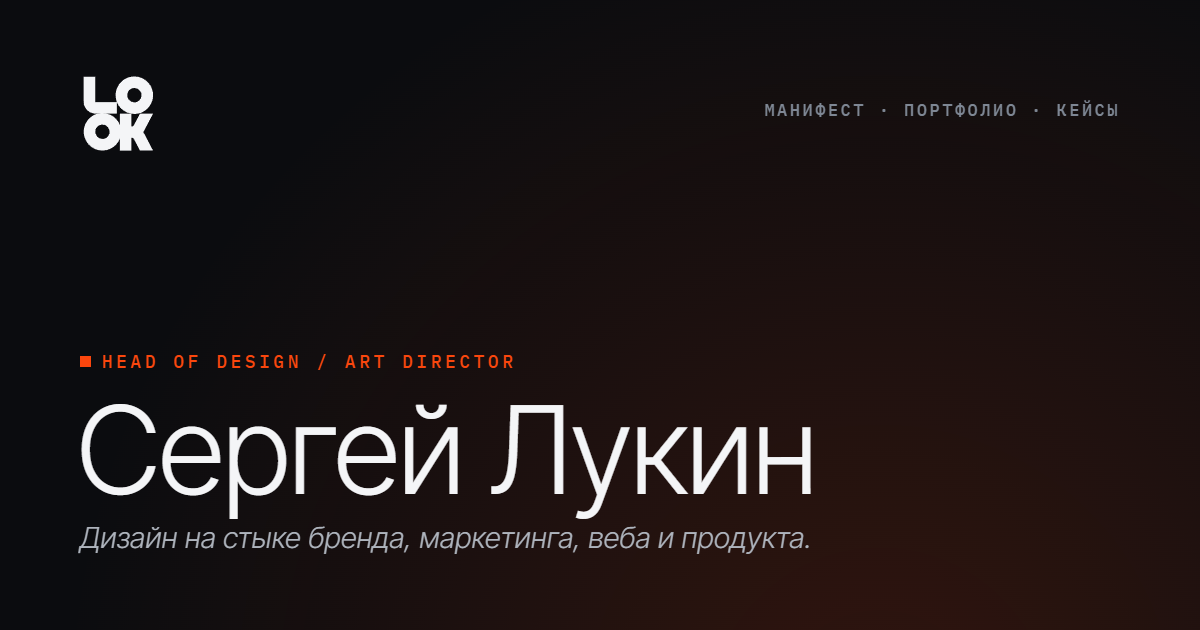
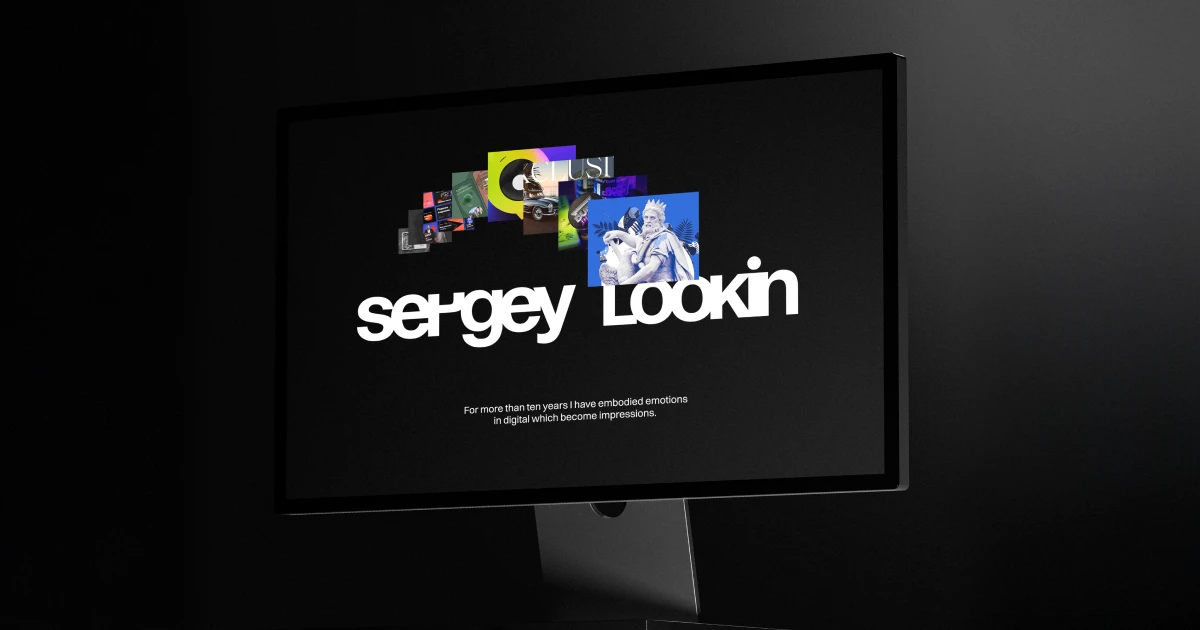
Новое превью для мессенджеров, без повтора названия
Обложка og-cover.png заменена (1200×630, PNG 235 КБ). Из всех 26 страниц
убран og:site_name: Telegram печатал его над заголовком, и строка
«Сергей Лукин — Head of Design» шла два раза подряд.

diff --git a/portfolio.html b/portfolio.html
@@ -1,7 +1,7 @@
 <!DOCTYPE html>
 <html lang="ru"><head><meta charset="UTF-8" /><meta name="viewport" content="width=device-width, initial-scale=1.0" /><meta name="color-scheme" content="light dark" /><title>Портфолио · Сергей Лукин</title><meta name="description" content="Избранные проекты Сергея Лукина: брендинг, веб-дизайн, дизайн-системы и арт-дирекшн. Десять историй о том, как дизайн работает на бизнес, а не на портфолио." /><meta property="og:type" content="website" />
 <meta property="og:url" content="https://sergeylookin.github.io/Sergey-Lookin/portfolio.html" />
-<link rel="canonical" href="https://sergeylookin.github.io/Sergey-Lookin/portfolio.html"><meta property="og:locale" content="ru_RU" /><meta property="og:locale:alternate" content="en_US" /><meta property="og:site_name" content="Сергей Лукин — Head of Design" /><meta property="og:title" content="Портфолио · Сергей Лукин" /><meta property="og:description" content="Избранные проекты Сергея Лукина: брендинг, веб-дизайн, дизайн-системы и арт-дирекшн. Десять историй о том, как дизайн работает на бизнес, а не на портфолио." /><meta property="og:image" content="https://sergeylookin.github.io/Sergey-Lookin/assets/og/og-cover.png" /><meta property="og:image:width" content="1200" /><meta property="og:image:height" content="630" /><meta property="og:image:alt" content="Сергей Лукин — Head of Design / Art Director" /><meta name="twitter:card" content="summary_large_image" /><meta name="twitter:title" content="Портфолио · Сергей Лукин" /><meta name="twitter:description" content="Избранные проекты Сергея Лукина: брендинг, веб-дизайн, дизайн-системы и арт-дирекшн. Десять историй о том, как дизайн работает на бизнес, а не на портфолио." /><meta name="twitter:image" content="https://sergeylookin.github.io/Sergey-Lookin/assets/og/og-cover.png" /><meta name="twitter:image:alt" content="Сергей Лукин — Head of Design / Art Director" /><link rel="alternate" hreflang="ru" href="https://sergeylookin.github.io/Sergey-Lookin/portfolio.html"><link rel="alternate" hreflang="en" href="https://sergeylookin.github.io/Sergey-Lookin/en/portfolio.html"><link rel="alternate" hreflang="x-default" href="https://sergeylookin.github.io/Sergey-Lookin/portfolio.html"><link rel="icon" href="assets/favicon-dark.svg" type="image/svg+xml"><link rel="icon" href="assets/favicon-light.svg" type="image/svg+xml" media="(prefers-color-scheme: light)"><link rel="apple-touch-icon" href="assets/apple-touch-icon.png"><link rel="preload" href="assets/fonts/inter-tight-normal-300_700-cyrillic.woff2" as="font" type="font/woff2" crossorigin><link rel="preload" href="assets/fonts/inter-tight-italic-300_700-cyrillic.woff2" as="font" type="font/woff2" crossorigin><link rel="stylesheet" href="assets/core.min.css?v=188"><link rel="stylesheet" href="assets/site.min.css?v=188"></head>
+<link rel="canonical" href="https://sergeylookin.github.io/Sergey-Lookin/portfolio.html"><meta property="og:locale" content="ru_RU" /><meta property="og:locale:alternate" content="en_US" /><meta property="og:title" content="Портфолио · Сергей Лукин" /><meta property="og:description" content="Избранные проекты Сергея Лукина: брендинг, веб-дизайн, дизайн-системы и арт-дирекшн. Десять историй о том, как дизайн работает на бизнес, а не на портфолио." /><meta property="og:image" content="https://sergeylookin.github.io/Sergey-Lookin/assets/og/og-cover.png" /><meta property="og:image:width" content="1200" /><meta property="og:image:height" content="630" /><meta property="og:image:alt" content="Сергей Лукин — Head of Design / Art Director" /><meta name="twitter:card" content="summary_large_image" /><meta name="twitter:title" content="Портфолио · Сергей Лукин" /><meta name="twitter:description" content="Избранные проекты Сергея Лукина: брендинг, веб-дизайн, дизайн-системы и арт-дирекшн. Десять историй о том, как дизайн работает на бизнес, а не на портфолио." /><meta name="twitter:image" content="https://sergeylookin.github.io/Sergey-Lookin/assets/og/og-cover.png" /><meta name="twitter:image:alt" content="Сергей Лукин — Head of Design / Art Director" /><link rel="alternate" hreflang="ru" href="https://sergeylookin.github.io/Sergey-Lookin/portfolio.html"><link rel="alternate" hreflang="en" href="https://sergeylookin.github.io/Sergey-Lookin/en/portfolio.html"><link rel="alternate" hreflang="x-default" href="https://sergeylookin.github.io/Sergey-Lookin/portfolio.html"><link rel="icon" href="assets/favicon-dark.svg" type="image/svg+xml"><link rel="icon" href="assets/favicon-light.svg" type="image/svg+xml" media="(prefers-color-scheme: light)"><link rel="apple-touch-icon" href="assets/apple-touch-icon.png"><link rel="preload" href="assets/fonts/inter-tight-normal-300_700-cyrillic.woff2" as="font" type="font/woff2" crossorigin><link rel="preload" href="assets/fonts/inter-tight-italic-300_700-cyrillic.woff2" as="font" type="font/woff2" crossorigin><link rel="stylesheet" href="assets/core.min.css?v=188"><link rel="stylesheet" href="assets/site.min.css?v=188"></head>
 <body class="theme-dark"><a class="skip" href="#work" data-i18n="skip">Перейти к содержанию</a>
 <nav class="top on-dark" id="nav"><a class="brand" href="index.html" id="navHome" data-i18n="nav.brand">Сергей Лукин <b>·</b> <span>Head of Design</span></a><div class="nav-center"><a href="index.html" class="nav-contact" data-i18n="nav.manifesto">Манифест</a><span class="nav-sep" aria-hidden="true">·</span><a href="about.html" class="nav-contact" data-i18n="nav.about">Обо мне</a><span class="nav-sep" aria-hidden="true">·</span><a href="portfolio.html" class="nav-contact is-active" aria-current="page" data-i18n="nav.pf">Портфолио</a></div><div class="nav-right"><div class="lang-switch" id="langSwitch" role="group" aria-label="Язык" data-aria-ru="Язык" data-aria-en="Language"><button type="button" data-lang="ru" class="active" aria-pressed="true">RU</button><span class="sep" aria-hidden="true">·</span><button type="button" data-lang="en" aria-pressed="false">EN</button></div></div></nav>
 <header class="page-head wrap" id="work"><h1 class="page-title" data-i18n="pf.title">Избранные проекты</h1><p class="page-lead" data-i18n="pf.lead">Брендинг, веб-дизайн, дизайн-системы и арт-дирекшн. Десять историй о том, как дизайн работает на бизнес, а не на портфолио.</p></header>

diff --git a/en/portfolio.html b/en/portfolio.html
@@ -1,6 +1,6 @@
 <!DOCTYPE html><html lang="en"><head><meta charset="UTF-8"><meta name="viewport" content="width=device-width, initial-scale=1.0"><meta name="color-scheme" content="light dark"><title>Portfolio · Sergey Lukin</title><meta name="description" content="Selected projects by Sergey Lukin: branding, web design, design systems and art direction. Ten stories about design working for the business, not for the portfolio."><meta property="og:type" content="website">
 <meta property="og:url" content="https://sergeylookin.github.io/Sergey-Lookin/en/portfolio.html">
-<link rel="canonical" href="https://sergeylookin.github.io/Sergey-Lookin/en/portfolio.html"><meta property="og:locale" content="en_US"><meta property="og:locale:alternate" content="en_US"><meta property="og:site_name" content="Сергей Лукин — Head of Design"><meta property="og:title" content="Portfolio · Sergey Lukin"><meta property="og:description" content="Selected projects by Sergey Lukin: branding, web design, design systems and art direction. Ten stories about design working for the business, not for the portfolio."><meta property="og:image" content="https://sergeylookin.github.io/Sergey-Lookin/assets/og/og-cover.png"><meta property="og:image:width" content="1200"><meta property="og:image:height" content="630"><meta property="og:image:alt" content="Сергей Лукин — Head of Design / Art Director"><meta name="twitter:card" content="summary_large_image"><meta name="twitter:title" content="Portfolio · Sergey Lukin"><meta name="twitter:description" content="Selected projects by Sergey Lukin: branding, web design, design systems and art direction. Ten stories about design working for the business, not for the portfolio."><meta name="twitter:image" content="https://sergeylookin.github.io/Sergey-Lookin/assets/og/og-cover.png"><meta name="twitter:image:alt" content="Сергей Лукин — Head of Design / Art Director"><link rel="alternate" hreflang="ru" href="https://sergeylookin.github.io/Sergey-Lookin/portfolio.html"><link rel="alternate" hreflang="en" href="https://sergeylookin.github.io/Sergey-Lookin/en/portfolio.html"><link rel="alternate" hreflang="x-default" href="https://sergeylookin.github.io/Sergey-Lookin/portfolio.html"><link rel="icon" href="../assets/favicon-dark.svg" type="image/svg+xml"><link rel="icon" href="../assets/favicon-light.svg" type="image/svg+xml" media="(prefers-color-scheme: light)"><link rel="apple-touch-icon" href="../assets/apple-touch-icon.png"><link rel="preload" href="../assets/fonts/inter-tight-normal-300_700-cyrillic.woff2" as="font" type="font/woff2" crossorigin=""><link rel="preload" href="../assets/fonts/inter-tight-italic-300_700-cyrillic.woff2" as="font" type="font/woff2" crossorigin=""><link rel="stylesheet" href="../assets/core.min.css?v=188"><link rel="stylesheet" href="../assets/site.min.css?v=188"></head>
+<link rel="canonical" href="https://sergeylookin.github.io/Sergey-Lookin/en/portfolio.html"><meta property="og:locale" content="en_US"><meta property="og:locale:alternate" content="en_US"><meta property="og:title" content="Portfolio · Sergey Lukin"><meta property="og:description" content="Selected projects by Sergey Lukin: branding, web design, design systems and art direction. Ten stories about design working for the business, not for the portfolio."><meta property="og:image" content="https://sergeylookin.github.io/Sergey-Lookin/assets/og/og-cover.png"><meta property="og:image:width" content="1200"><meta property="og:image:height" content="630"><meta property="og:image:alt" content="Сергей Лукин — Head of Design / Art Director"><meta name="twitter:card" content="summary_large_image"><meta name="twitter:title" content="Portfolio · Sergey Lukin"><meta name="twitter:description" content="Selected projects by Sergey Lukin: branding, web design, design systems and art direction. Ten stories about design working for the business, not for the portfolio."><meta name="twitter:image" content="https://sergeylookin.github.io/Sergey-Lookin/assets/og/og-cover.png"><meta name="twitter:image:alt" content="Сергей Лукин — Head of Design / Art Director"><link rel="alternate" hreflang="ru" href="https://sergeylookin.github.io/Sergey-Lookin/portfolio.html"><link rel="alternate" hreflang="en" href="https://sergeylookin.github.io/Sergey-Lookin/en/portfolio.html"><link rel="alternate" hreflang="x-default" href="https://sergeylookin.github.io/Sergey-Lookin/portfolio.html"><link rel="icon" href="../assets/favicon-dark.svg" type="image/svg+xml"><link rel="icon" href="../assets/favicon-light.svg" type="image/svg+xml" media="(prefers-color-scheme: light)"><link rel="apple-touch-icon" href="../assets/apple-touch-icon.png"><link rel="preload" href="../assets/fonts/inter-tight-normal-300_700-cyrillic.woff2" as="font" type="font/woff2" crossorigin=""><link rel="preload" href="../assets/fonts/inter-tight-italic-300_700-cyrillic.woff2" as="font" type="font/woff2" crossorigin=""><link rel="stylesheet" href="../assets/core.min.css?v=188"><link rel="stylesheet" href="../assets/site.min.css?v=188"></head>
 <body class="theme-dark"><a class="skip" href="#work" data-i18n="skip">Skip to content</a>
 <nav class="top on-dark" id="nav"><a class="brand" href="index.html" id="navHome" data-i18n="nav.brand">Sergey Lukin <b>·</b> <span>Head of Design</span></a><div class="nav-center"><a href="index.html" class="nav-contact" data-i18n="nav.manifesto">Manifesto</a><span class="nav-sep" aria-hidden="true">·</span><a href="about.html" class="nav-contact" data-i18n="nav.about">About</a><span class="nav-sep" aria-hidden="true">·</span><a href="portfolio.html" class="nav-contact is-active" aria-current="page" data-i18n="nav.pf">Portfolio</a></div><div class="nav-right"><div class="lang-switch" id="langSwitch" role="group" aria-label="Язык" data-aria-ru="Язык" data-aria-en="Language"><button type="button" data-lang="ru" class="active" aria-pressed="true">RU</button><span class="sep" aria-hidden="true">·</span><button type="button" data-lang="en" aria-pressed="false">EN</button></div></div></nav>
 <header class="page-head wrap" id="work"><h1 class="page-title" data-i18n="pf.title">Selected projects</h1><p class="page-lead" data-i18n="pf.lead">Branding, web, design systems and art direction. Ten stories about design that works for the business, not the portfolio.</p></header>

diff --git a/about.html b/about.html
@@ -10,7 +10,6 @@
 <meta property="og:url" content="https://sergeylookin.github.io/Sergey-Lookin/about.html" />
 <link rel="canonical" href="https://sergeylookin.github.io/Sergey-Lookin/about.html">
 <meta property="og:locale" content="ru_RU" />
-<meta property="og:site_name" content="Сергей Лукин — Head of Design" />
 <meta property="og:title" content="Обо мне · Сергей Лукин" />
 <meta property="og:description" content="Сергей Лукин — Head of Design / Art Director с 12+ годами опыта. О подходе к дизайну на стыке бренда и продукта и о том, как соединяю смысл, форму и восприятие." />
 <meta property="og:image" content="https://sergeylookin.github.io/Sergey-Lookin/assets/og/og-cover.png" />

diff --git a/projects/02.html b/projects/02.html
@@ -5,7 +5,6 @@
 <meta property="og:url" content="https://sergeylookin.github.io/Sergey-Lookin/projects/02.html" />
 <link rel="canonical" href="https://sergeylookin.github.io/Sergey-Lookin/projects/02.html">
 <meta property="og:locale" content="ru_RU" />
-<meta property="og:site_name" content="Сергей Лукин — Head of Design" />
 <meta property="og:title" content="Rocket Work · Сергей Лукин" />
 <meta property="og:description" content="Финтех-платформа для распределённой занятости и массовых выплат самозанятым и исполнителям." />
 <meta property="og:image" content="https://sergeylookin.github.io/Sergey-Lookin/assets/img/rocketwork-preview.webp" />

diff --git a/projects/01.html b/projects/01.html
@@ -5,7 +5,6 @@
 <meta property="og:url" content="https://sergeylookin.github.io/Sergey-Lookin/projects/01.html" />
 <link rel="canonical" href="https://sergeylookin.github.io/Sergey-Lookin/projects/01.html">
 <meta property="og:locale" content="ru_RU" />
-<meta property="og:site_name" content="Сергей Лукин — Head of Design" />
 <meta property="og:title" content="Руна · Сергей Лукин" />
 <meta property="og:description" content="ИИ-ассистент в форме матрёшки — где славянская культура встречается с технологией будущего." />
 <meta property="og:image" content="https://sergeylookin.github.io/Sergey-Lookin/assets/img/runa-preview.webp" />

diff --git a/index.html b/index.html
@@ -17,7 +17,6 @@
 <meta property="og:type" content="website" />
 <meta property="og:url" content="https://sergeylookin.github.io/Sergey-Lookin/" />
 <link rel="canonical" href="https://sergeylookin.github.io/Sergey-Lookin/">
-<meta property="og:site_name" content="Сергей Лукин — Head of Design" />
 <meta property="og:title" content="Сергей Лукин — Head of Design / Art Director" />
 <meta property="og:description" content="Дизайн на стыке бренда, маркетинга, веба и продукта. Манифест, портфолио и отобранные кейсы." />
 <meta property="og:image" content="https://sergeylookin.github.io/Sergey-Lookin/assets/og/og-cover.png" />

diff --git a/projects/05.html b/projects/05.html
@@ -5,7 +5,6 @@
 <meta property="og:url" content="https://sergeylookin.github.io/Sergey-Lookin/projects/05.html" />
 <link rel="canonical" href="https://sergeylookin.github.io/Sergey-Lookin/projects/05.html">
 <meta property="og:locale" content="ru_RU" />
-<meta property="og:site_name" content="Сергей Лукин — Head of Design" />
 <meta property="og:title" content="Duft: Hookah Flames · Сергей Лукин" />
 <meta property="og:description" content="Лайфстайл-бренд табака на стыке продукта, поп-культуры и инфлюенсеров." />
 <meta property="og:image" content="https://sergeylookin.github.io/Sergey-Lookin/assets/img/duft-preview.webp" />

diff --git a/en/about.html b/en/about.html
@@ -8,7 +8,6 @@
 <meta property="og:url" content="https://sergeylookin.github.io/Sergey-Lookin/en/about.html">
 <link rel="canonical" href="https://sergeylookin.github.io/Sergey-Lookin/en/about.html">
 <meta property="og:locale" content="en_US">
-<meta property="og:site_name" content="Сергей Лукин — Head of Design">
 <meta property="og:title" content="About · Sergey Lukin">
 <meta property="og:description" content="Sergey Lukin — Head of Design / Art Director with 12+ years of experience. On designing across brand and product — bringing meaning, form and perception together.">
 <meta property="og:image" content="https://sergeylookin.github.io/Sergey-Lookin/assets/og/og-cover.png">

diff --git a/projects/07.html b/projects/07.html
@@ -5,7 +5,6 @@
 <meta property="og:url" content="https://sergeylookin.github.io/Sergey-Lookin/projects/07.html" />
 <link rel="canonical" href="https://sergeylookin.github.io/Sergey-Lookin/projects/07.html">
 <meta property="og:locale" content="ru_RU" />
-<meta property="og:site_name" content="Сергей Лукин — Head of Design" />
 <meta property="og:title" content="Маркетинг-кит · Сергей Лукин" />
 <meta property="og:description" content="Айдентика, вдохновлённая вневременной эстетикой античности." />
 <meta property="og:image" content="https://sergeylookin.github.io/Sergey-Lookin/assets/img/mk-preview.webp" />

diff --git a/projects/04.html b/projects/04.html
@@ -5,7 +5,6 @@
 <meta property="og:url" content="https://sergeylookin.github.io/Sergey-Lookin/projects/04.html" />
 <link rel="canonical" href="https://sergeylookin.github.io/Sergey-Lookin/projects/04.html">
 <meta property="og:locale" content="ru_RU" />
-<meta property="og:site_name" content="Сергей Лукин — Head of Design" />
 <meta property="og:title" content="Chobies NTO · Сергей Лукин" />
 <meta property="og:description" content="Web3-вселенная NFT-персонажей и первый формат NTO — от идеи до запуска." />
 <meta property="og:image" content="https://sergeylookin.github.io/Sergey-Lookin/assets/img/chobies-preview.webp" />

diff --git a/projects/06.html b/projects/06.html
@@ -5,7 +5,6 @@
 <meta property="og:url" content="https://sergeylookin.github.io/Sergey-Lookin/projects/06.html" />
 <link rel="canonical" href="https://sergeylookin.github.io/Sergey-Lookin/projects/06.html">
 <meta property="og:locale" content="ru_RU" />
-<meta property="og:site_name" content="Сергей Лукин — Head of Design" />
 <meta property="og:title" content="Squad Gaming · Сергей Лукин" />
 <meta property="og:description" content="Визуальная вселенная Play-to-Earn-платформы — от бренда до продукта." />
 <meta property="og:image" content="https://sergeylookin.github.io/Sergey-Lookin/assets/img/squad-preview.webp" />

diff --git a/projects/09.html b/projects/09.html
@@ -5,7 +5,6 @@
 <meta property="og:url" content="https://sergeylookin.github.io/Sergey-Lookin/projects/09.html" />
 <link rel="canonical" href="https://sergeylookin.github.io/Sergey-Lookin/projects/09.html">
 <meta property="og:locale" content="ru_RU" />
-<meta property="og:site_name" content="Сергей Лукин — Head of Design" />
 <meta property="og:title" content="Heatbit · Сергей Лукин" />
 <meta property="og:description" content="Умное устройство, совмещающее климат-контроль и майнинг Bitcoin." />
 <meta property="og:image" content="https://sergeylookin.github.io/Sergey-Lookin/assets/img/heatbit-preview.webp" />
